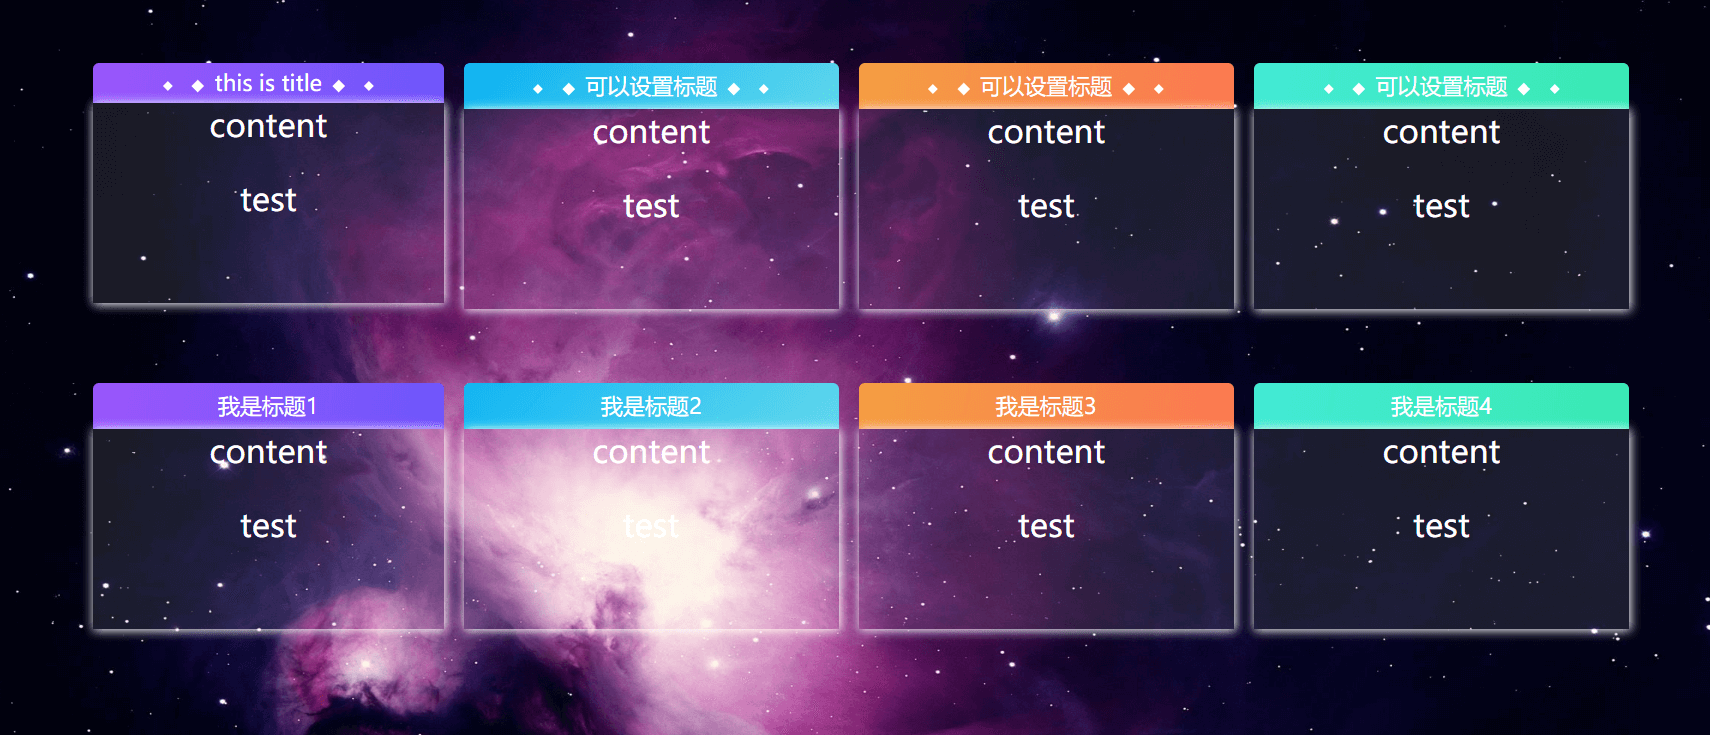
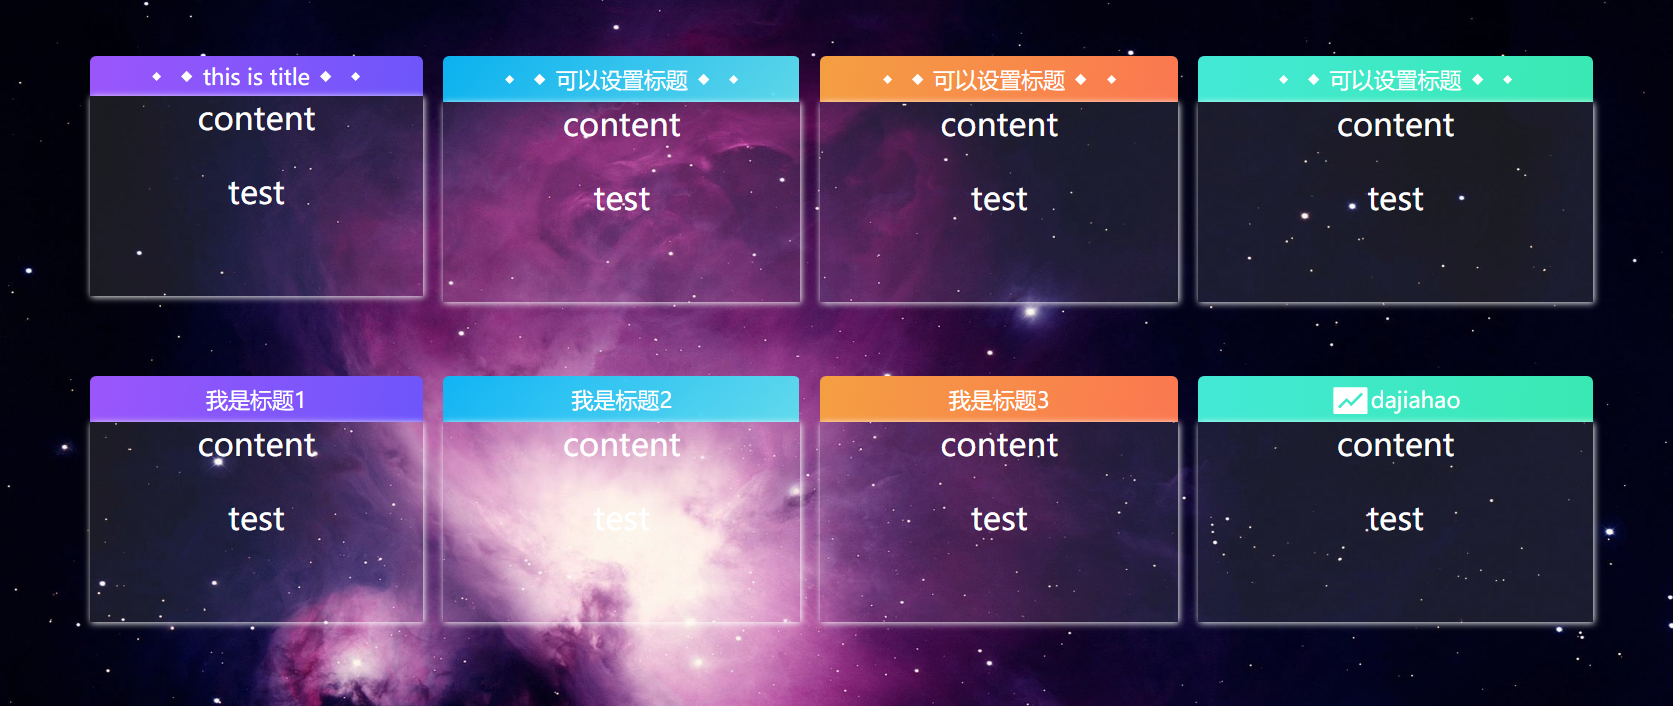
替换demo图片,修改展示案例,修改readme文档

diff --git a/src/views/Home.vue b/src/views/Home.vue
@@ -76,7 +76,7 @@
       </husky-vue-card>
     </div>
     <div class="card-demo">
-      <husky-vue-card cardTheme="green" :titleShow="false" :titleDecoration="false" title="dajiahao">
+      <husky-vue-card cardTheme="green"  :titleDecoration="false" title="dajiahao">
         <template v-slot:body>
            <div class="test">
             <span>content</span>

diff --git a/README.md b/README.md
@@ -53,5 +53,5 @@ Vue.use(huskyVueCard)
 ### slot
 | slot name(插槽名称) | description（说明） |
 | :- | :- |
-| iconTitle（图片标题） |  add icon title（添加图片标题） |
+| iconTitle（图片标题） |  add icon title（添加图片标题,可以同时和文字标题一同出现） |
 | body（卡片主体） | add card body content（添加卡片主题内容） |
